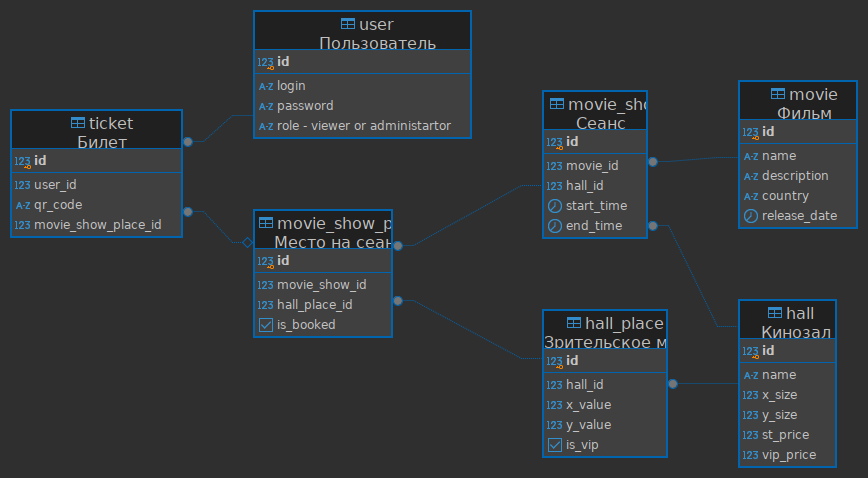
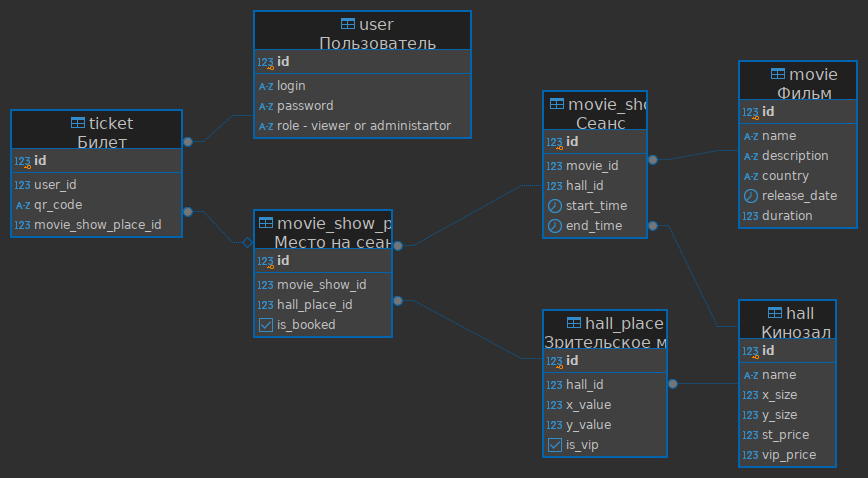
movies

Changed region(s): [[0.8399, 0.1172, 0.9954, 0.4686], [0.7465, 0.3222, 0.8088, 0.3515]]

diff --git a/src/main/java/ru/gocinema/server/model/Movie.java b/src/main/java/ru/gocinema/server/model/Movie.java
@@ -35,4 +35,7 @@ public class Movie {
 
     @Column(name = "release_date")
     private LocalDate releaseDate;
+
+    @Column
+    private int duration;
 }
